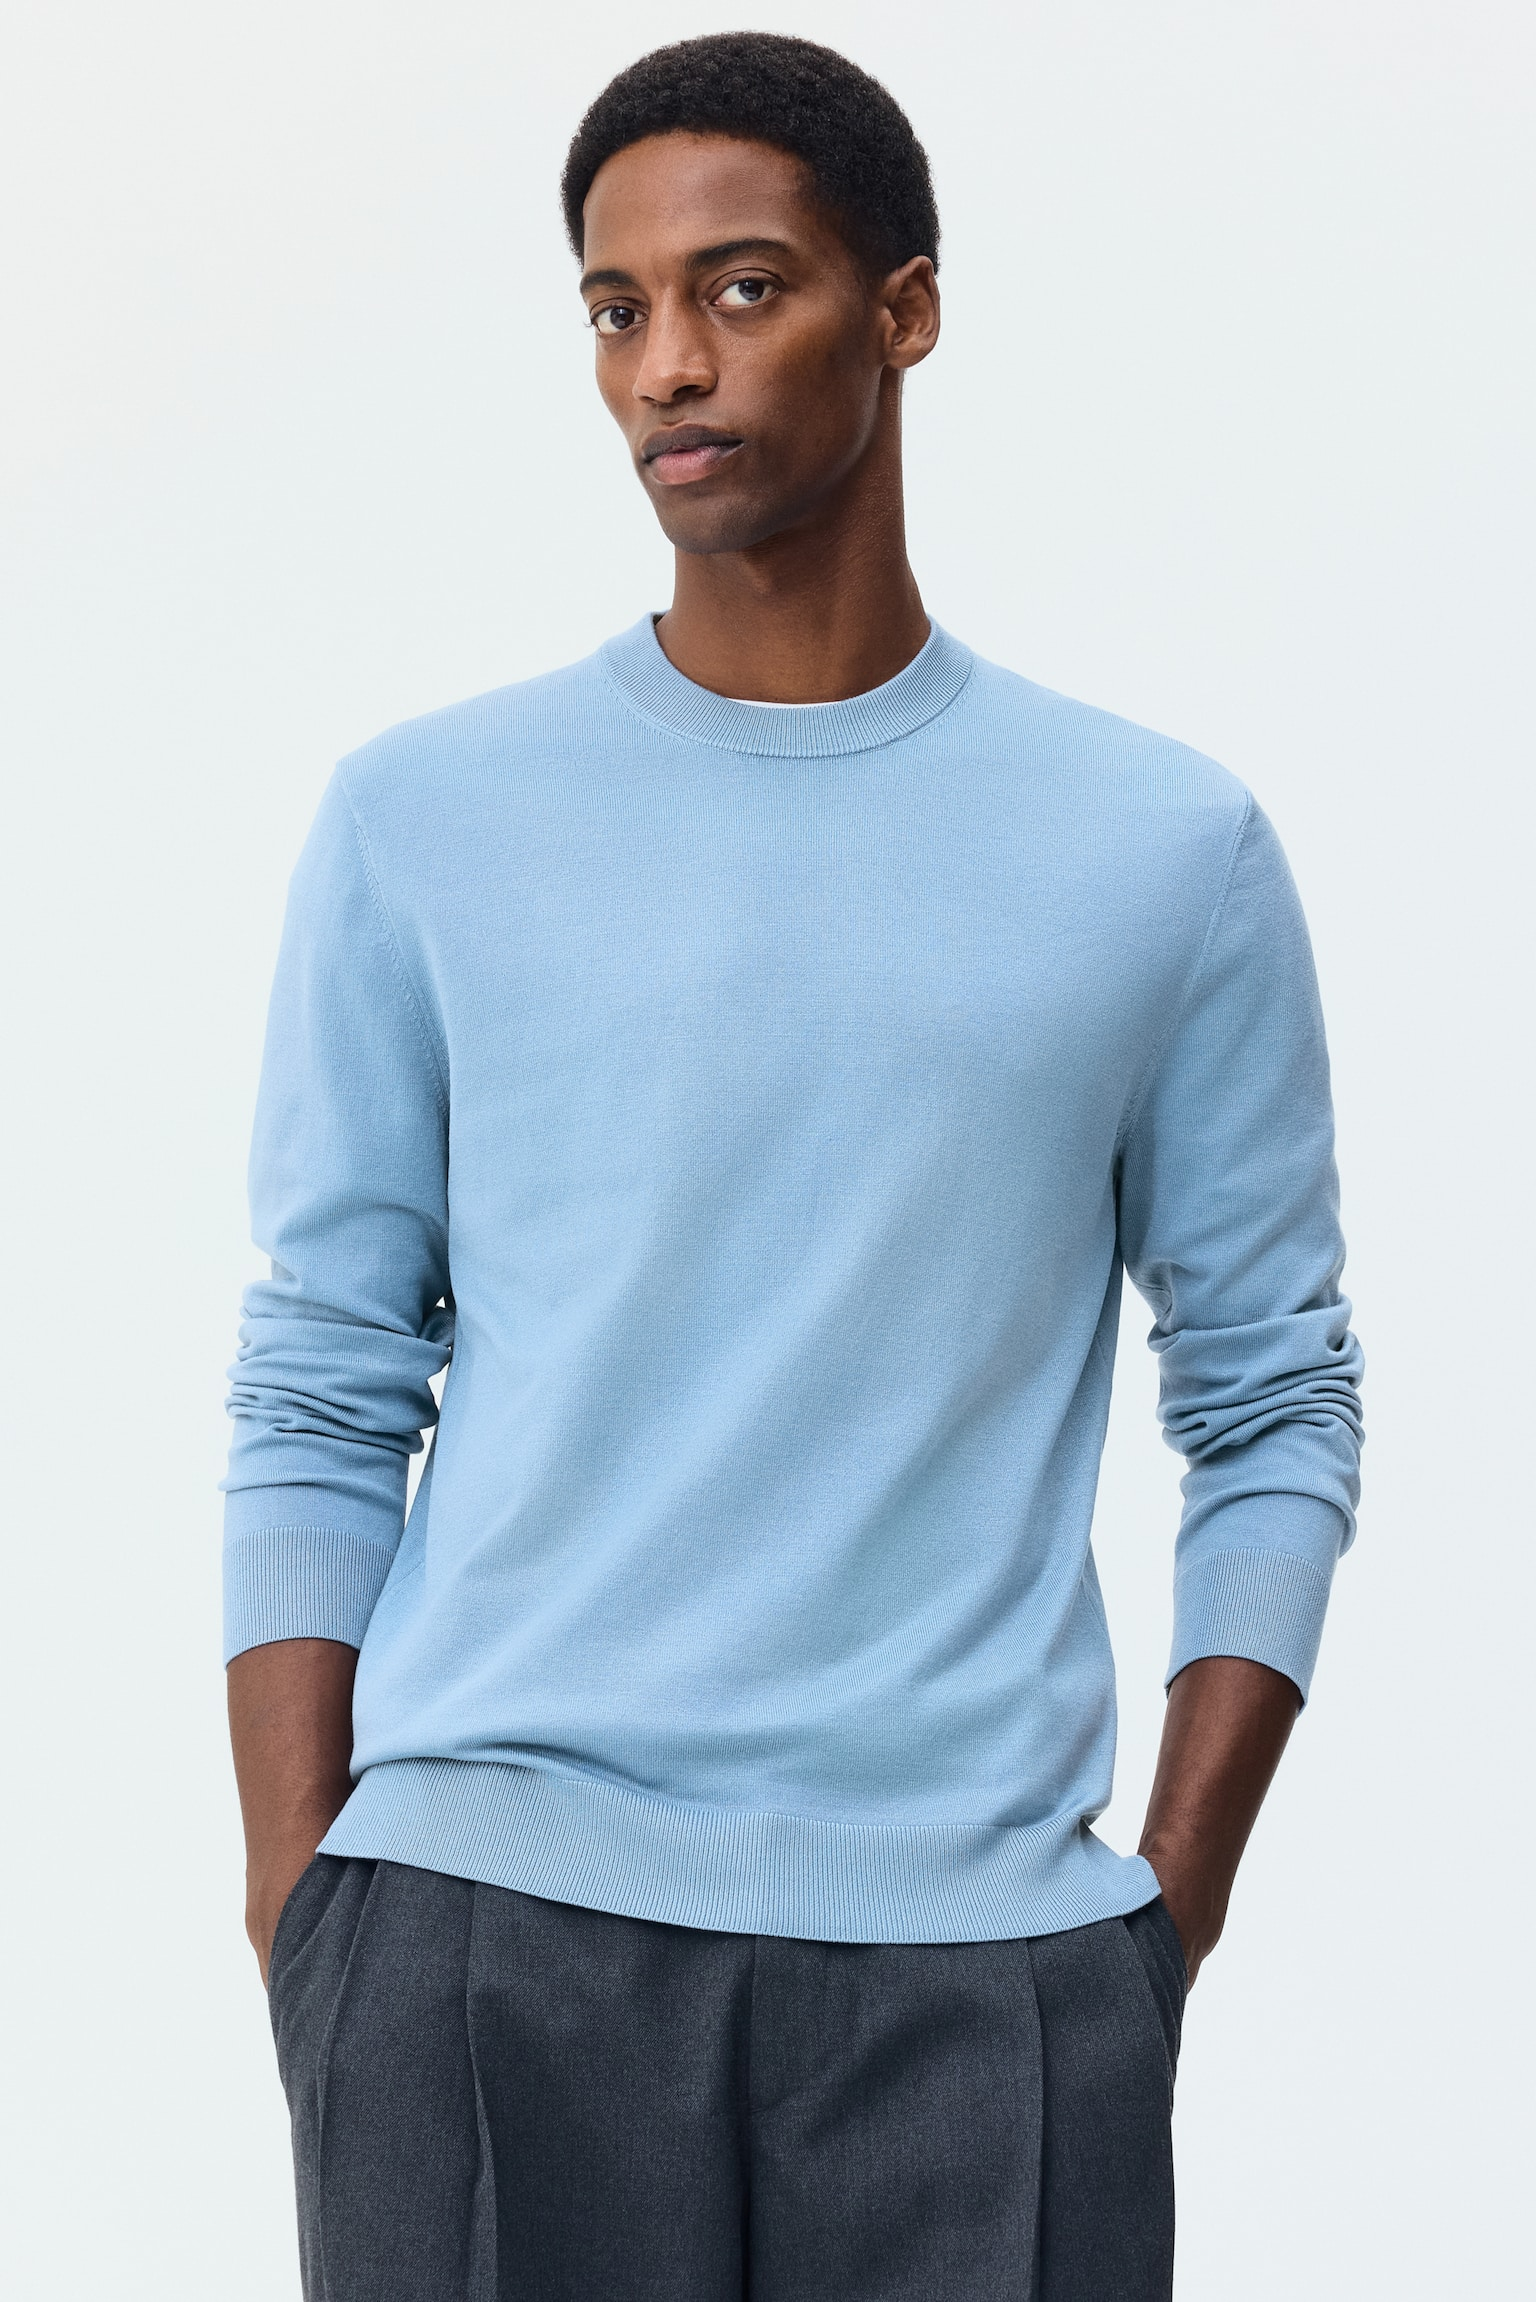
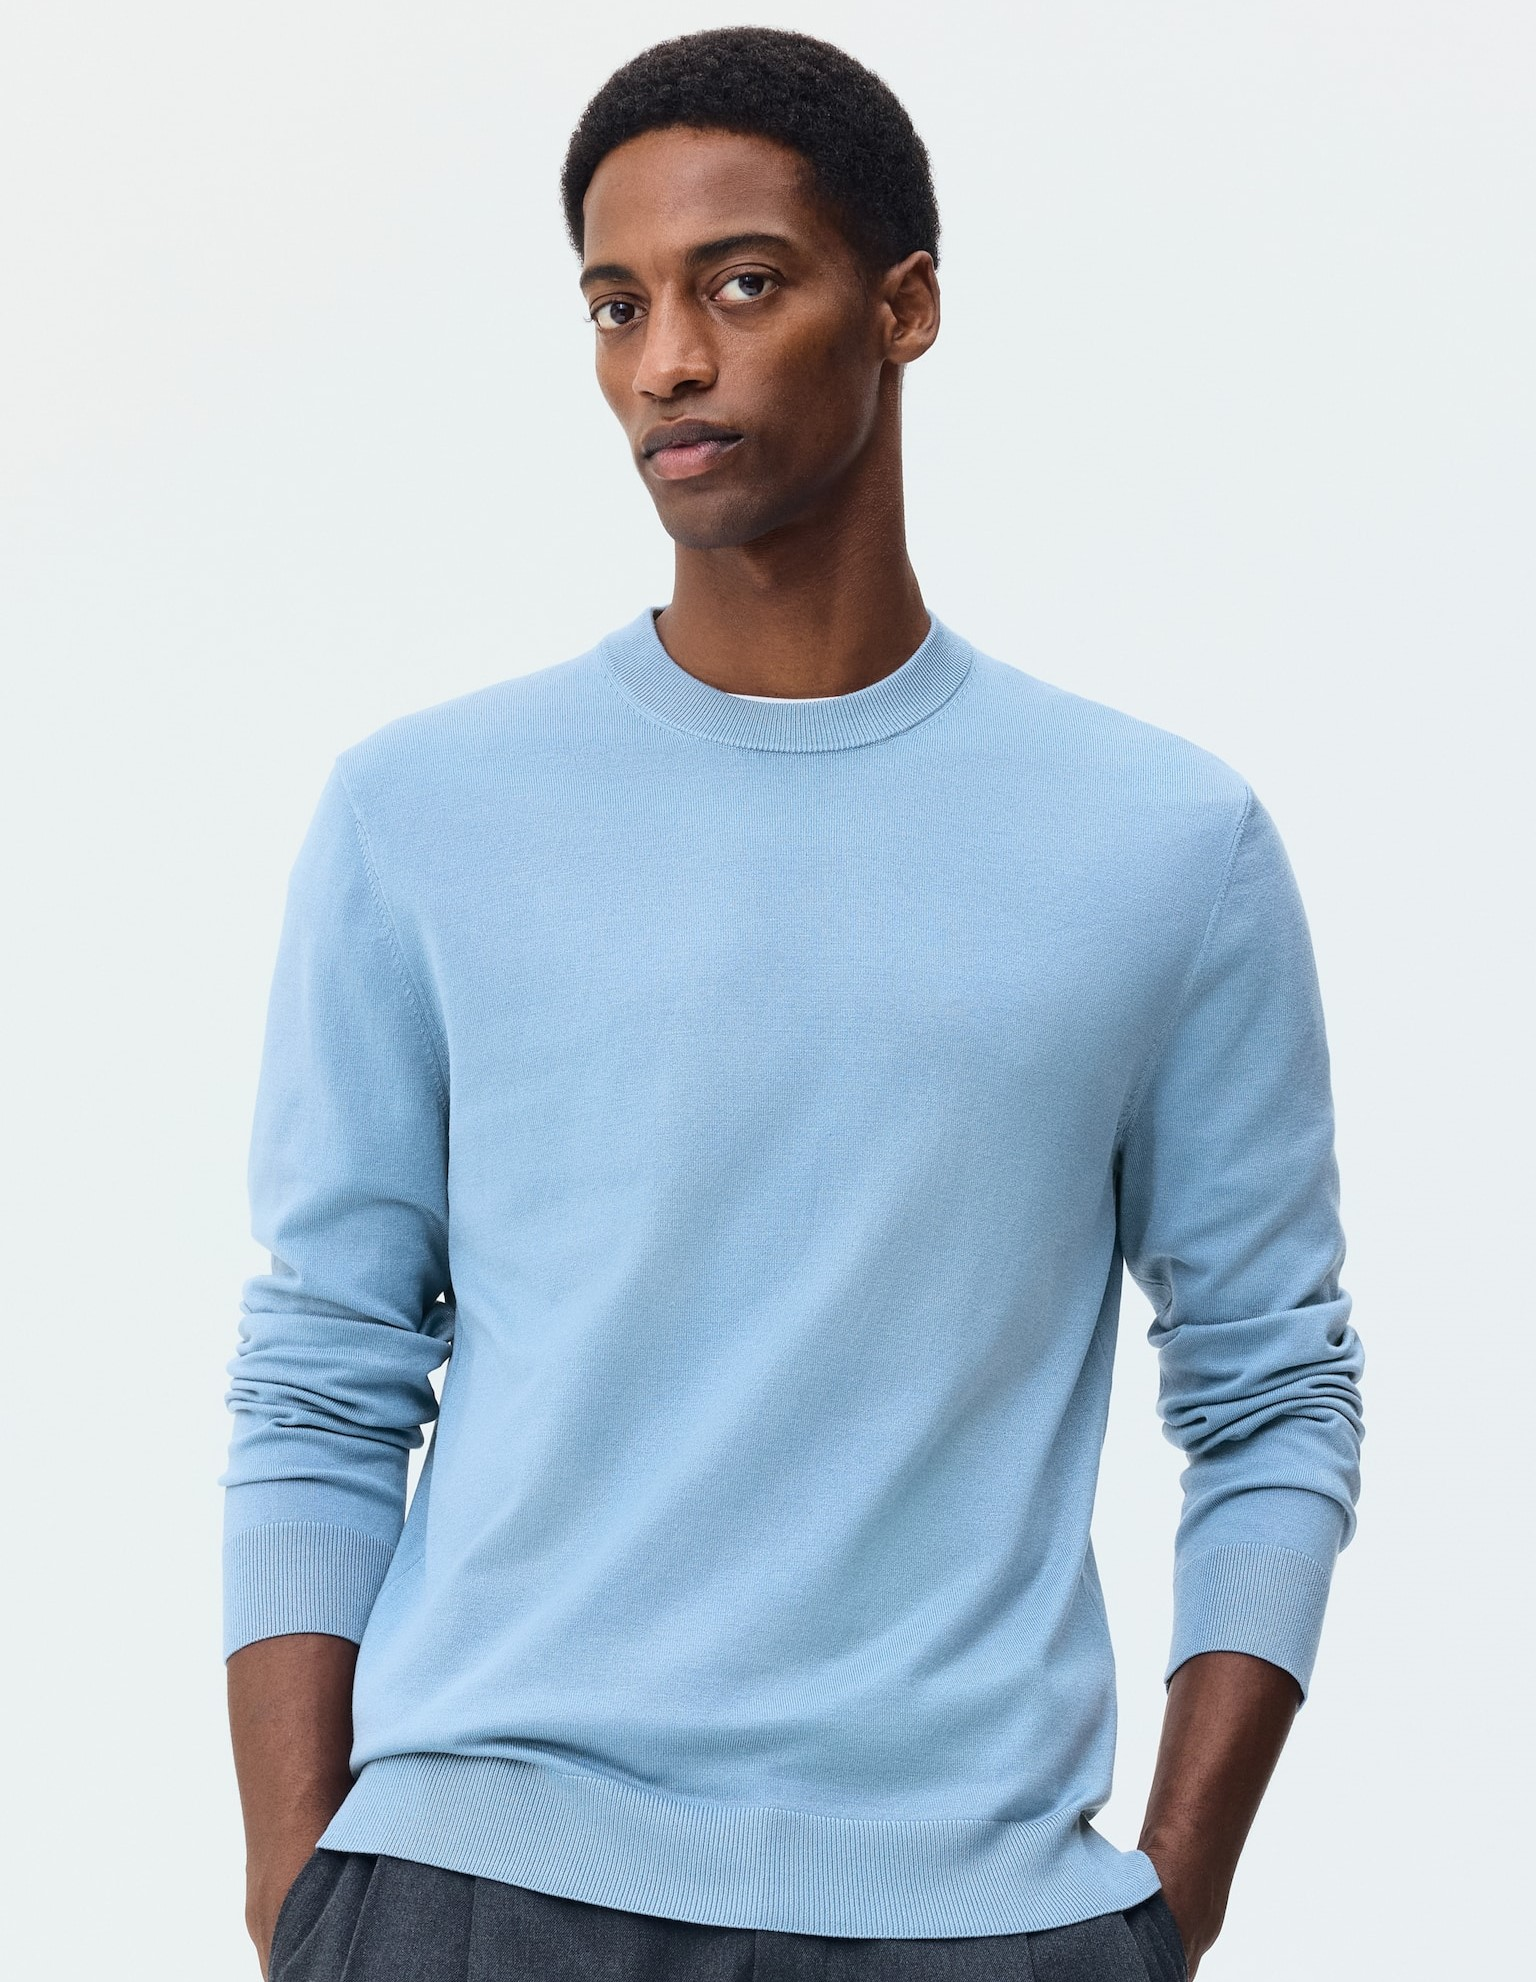
add

diff --git a/product-detail.html b/product-detail.html
@@ -1,0 +1,90 @@
+<!DOCTYPE html>
+<html lang="en">
+<head>
+    <title>VastraHub | Men</title>
+
+    <!-- global css -->
+    <link rel="stylesheet" href="css/all.min.css">
+    <link rel="stylesheet" href="css/fonts.css">
+    <link rel="stylesheet" href="css/style.css">
+
+    <!-- product page css -->
+    <link rel="stylesheet" href="css/product.css">
+</head>
+
+<body>
+
+<!-- HEADER -->
+<div id="header"></div>
+
+<section>
+    <div class="pro-container">
+        <!-- Image -->
+         <div class="image-section">
+             <div class="thumbnails">
+            <img src="https://via.placeholder.com/80x100" onclick="changeImg(this)">
+            <img src="https://via.placeholder.com/80x100/ffc0cb" onclick="changeImg(this)">
+            <img src="https://via.placeholder.com/80x100/f4a460" onclick="changeImg(this)">
+        </div>
+
+        <div class="main-image">
+            <img id="mainImg" src="https://via.placeholder.com/420x520">
+        </div>
+         </div>
+         <!-- Product Info -->
+        <div class="product-info">
+            <div class="pro-info">
+            <div class="brand">glitchez</div>
+        <div class="product-title">Varsity Print Oversized T-shirt</div>
+
+        <div class="rating"><i class="fa-solid fa-star"></i> 4.3 | 319 Ratings</div>
+
+        <div class="price">
+            ₹433 
+        </div>
+
+        <div class="tax">inclusive of all taxes</div>
+
+        <div class="size-title">
+            SELECT SIZE <span style="color:red;font-size:12px;">SIZE CHART</span>
+        </div>
+
+        <div class="size-box">
+            <button onclick="selectSize(this)">XS</button>
+            <button onclick="selectSize(this)">S</button>
+            <button onclick="selectSize(this)">M</button>
+            <button onclick="selectSize(this)">L</button>
+            <button onclick="selectSize(this)">XL</button>
+        </div>
+        </div>
+        <div class="buttons">
+            <a href="cart.html" class="btn cart-btn">  <i class="fa-solid fa-cart-shopping"></i> Add to Cart</a>
+            <a href="wishlist.html" class="btn wishlst-btn"><i class="fa-solid fa-heart"></i> Wishlist</a>
+           
+            
+        </div>
+    </div>
+</div>
+        </div>
+    
+</section>
+
+<!-- FOOTER -->
+<div id="footer"></div>
+
+<script>
+    /* load header */
+    fetch("header.html")
+        .then(res => res.text())
+        .then(data => document.getElementById("header").innerHTML = data);
+
+    
+
+    /* load footer */
+    fetch("footer.html")
+        .then(res => res.text())
+        .then(data => document.getElementById("footer").innerHTML = data);
+</script>
+
+</body>
+</html>

diff --git a/css/style.css b/css/style.css
@@ -264,6 +264,158 @@ span {
   margin-right: 10px;
 }
 
+/*---------- product-------------- */
+.pro-container{
+     max-width: 1140px;
+     padding-top: 50px;
+       margin: 0 auto;
+     display: flex;
+     
+}
+
+   /* LEFT CATEGORY LIST */
+        .sidebar {
+            width: 220px;
+            padding: 20px;
+            border-right: 1px solid #ddd;
+            background: white;
+        }
+
+        .sidebar h3 {
+            margin-bottom: 15px;
+            font-size: 14px;
+            letter-spacing: 1px;
+        }
+
+        .category-item {
+            padding: 8px 0;
+            font-size: 14px;
+            cursor: pointer;
+        }
+
+        .category-item:hover {
+            font-weight: bold;
+        }
+
+        /* RIGHT PRODUCT AREA */
+        .content {
+            flex: 1;
+            padding: 20px;
+            background: white;
+        }
+
+        .category {
+            display: none;
+        }
+
+/*--------- product detail------------ */
+/* Image section */
+.image-section {
+    width: 50%;
+    display: flex;
+    gap: 15px;
+     background: white;
+}
+
+
+
+/* products info */
+.product-info {
+    width: 50%;
+     background: white;
+}
+
+.pro-info{
+padding: 10px;
+
+}
+.brand {
+    font-size: 22px;
+    font-weight: bold;
+}
+
+.product-title {
+    color: #555;
+    margin: 5px 0;
+}
+
+.rating {
+    color: green;
+    font-size: 14px;
+}
+
+.price {
+    font-size: 24px;
+    font-weight: bold;
+    margin: 10px 0;
+}
+
+
+.tax {
+    color: green;
+    font-size: 14px;
+}
+
+.size-title {
+    margin-top: 20px;
+    font-weight: bold;
+}
+
+.size-box {
+  display: flex;
+  gap: 8px;
+  margin: 15px 0;
+}
+
+.size-box button {
+  background: #fff;
+  border: 1px solid var(--primary);
+  padding: 6px 10px;
+  color: var(--primary);
+  font-size: 14px;
+  cursor: pointer;
+  transition: all 0.3s ease;
+}
+
+.size-box button:hover {
+  background:var(--primary);
+  color: #fff;
+  border-color: var(--primary);
+}
+
+.size-box button.active {
+  background: var(--primary);
+  color: #fff;
+  border-color: var(--primary);
+}
+
+
+.cart-btn{
+  text-align: center;
+width: 46%;
+  position: relative;
+}
+
+.wishlst-btn{
+  text-align: center;
+  width: 46%;
+   position: relative;
+}
+
+
+
+
+
+
+
+
+
+
+
+
+
+
+
 /* footer */
 /* ================= FOOTER ================= */
 

diff --git a/footer.html b/footer.html
@@ -24,10 +24,7 @@
     <div class="footer-top">
         <div class="container footer-top-content">
             <h1 class="footer-logo">VastraHub</h1>
-            <p>
-                Lorem Ipsum is simply dummy text of the printing and typesetting industry.
-                Lorem Ipsum has been the industry's standard dummy text ever since the 1500s.
-            </p>
+           
 
             <div class="footer-social">
                 <a href="#"><i class="fab fa-facebook-f"></i></a>
@@ -47,7 +44,7 @@
                 <ul>
                     <li><i class="fa-solid fa-location-dot"></i> 4005, la roche posh<br>France</li>
                     <li><i class="fa-solid fa-phone"></i> +00 01010101</li>
-                    <li><i class="fa-solid fa-envelope"></i> info@mail.com</li>
+                    <li><i class="fa-solid fa-envelope"></i> vastrahub@gmail.com</li>
                 </ul>
             </div>
 

diff --git a/men.html b/men.html
@@ -8,8 +8,7 @@
     <link rel="stylesheet" href="css/fonts.css">
     <link rel="stylesheet" href="css/style.css">
 
-    <!-- product page css -->
-    <link rel="stylesheet" href="css/product.css">
+   
 </head>
 
 <body>
@@ -36,13 +35,13 @@
             <div id="clothes" class="category">
                 <div class="products">
 
-                    <div class="card">
-                        <img src="images/men/asset01.jpg">
+                    <div class="subbox1">
+                        <img src="images/men/asset03.jpg">
                         <p>Men Shirt</p>
                         <p class="price">₹999</p>
                     </div>
 
-                    <div class="card">
+                    <div class="subbox1">
                         <img src="images/men/asset02.jpg">
                         <p>Jeans</p>
                         <p class="price">₹1499</p>
